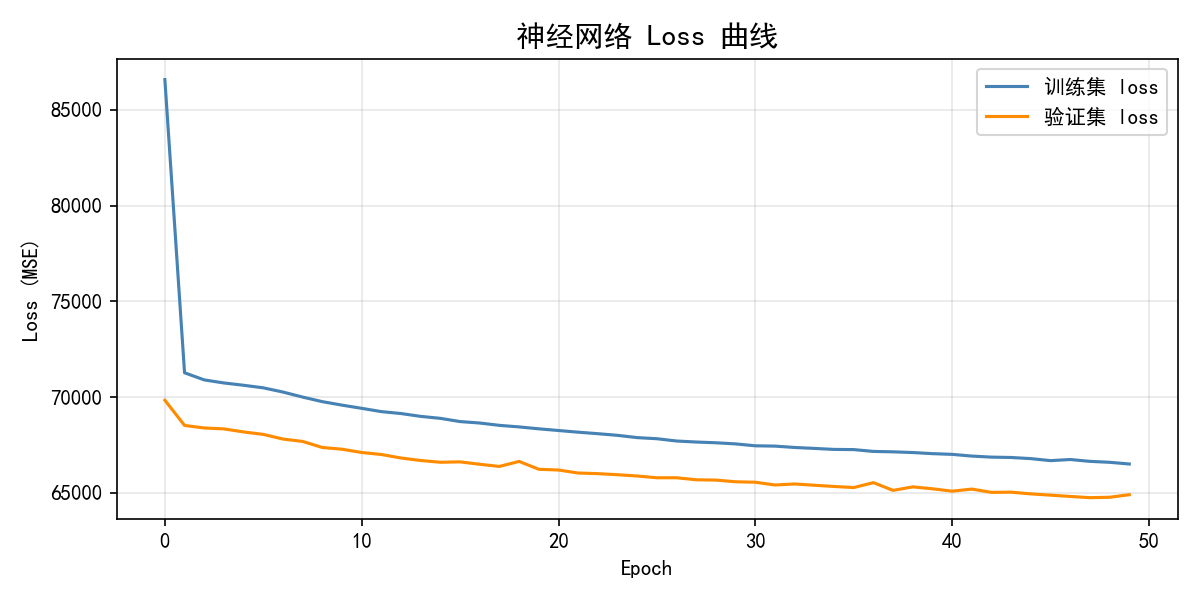
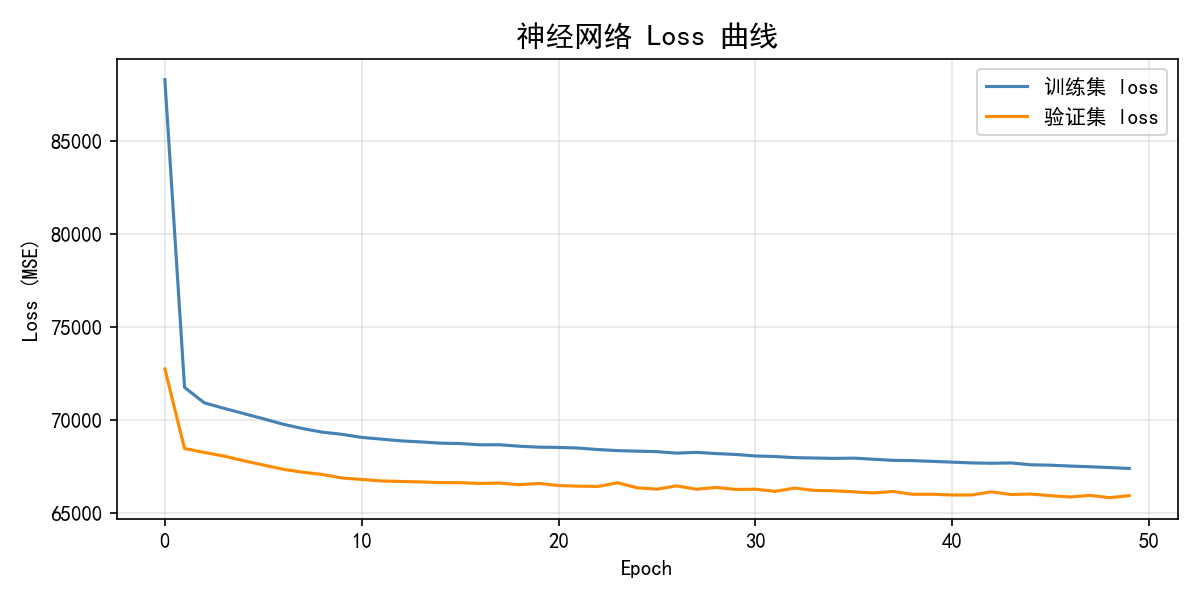
同步运行截图和报告

diff --git a/main.py b/main.py
@@ -431,6 +431,8 @@ SYSTEM_PROMPT = """你是一个纽约出租车数据分析助手，基于2023年
 def rule_based_answer(question):
     """尝试用规则匹配用户问题，返回 (bool, str, str) -> (是否匹配成功, 回答文本, 可能的图表路径)"""
     q = question.lower()
+    if '人工智能' in q or '帮我分析' in q or '详细说说' in q:
+        return False, "", None   # 强行跳过规则，走大模型
     
     # 1. 时段查询：哪个小时订单最多？
     if any(w in q for w in ['小时', '几点', '时段']) and any(w in q for w in ['最多', '高峰', '最多订单']):

diff --git a/人机协作报告.md b/人机协作报告.md
@@ -112,8 +112,6 @@
 
 - **决策**：采纳！运行后得到聚合样本数 22058，训练集 17646，测试集 4412，比例正好 8:2，没有问题！
 
-- **代码位置**：  
-  `main.py` 中 M3 模块开头，`# ===== M3 预测模型 =====` 之后至 `# 划分训练/测试集` 结束。关键行：`df.groupby(...)`、`train_test_split(test_size=0.2, random_state=42)`。
 
 
 #### 2. 神经网络模型构建与训练
@@ -123,9 +121,6 @@
 - **AI 输出摘要**：给出 3 层全连接网络（64→32→16→1，ReLU 激活），用 `StandardScaler` 对特征做标准化，编译参数 `optimizer='adam', loss='mse'`，训练 50 轮，batch size 128，记录训练/验证 loss，最后用 `matplotlib` 绘制 loss 曲线并保存，并在测试集上计算 MAE、RMSE
 
 - **决策**：采纳！运行过程中虽然出现多条 TensorFlow 的 WARNING（oneDNN、GPU 不可用等），但是给DS分析后，DS解释这些仅表示 Windows 下用的是 CPU 且有些优化选项开启，不会影响结果
-
-- **代码位置**：  
-  `main.py` 中 `# ----- 2. 神经网络模型（TensorFlow/Keras）-----` 部分，从 `import tensorflow as tf` 开始到输出 `MAE = ... RMSE = ...` 结束。包含模型定义 `Sequential`、`compile`、`fit`、`plot` 等所有操作。
 
 - **错误与修正**：通过观察训练结果我发现到验证集 loss 略低于训练集 loss（应该是有轻微异常），DS 解释可能是 dropout 缺失或验证集规模小造成的统计波动，并未出现过拟合，所以应该是没有什么问题的
 
@@ -139,8 +134,6 @@
 
 - **决策**：将这两个数值记录下来用于后面与随机森林对比
 
-- **代码位置**：  
-  Loss 曲线绘制在神经网络模型的 `# 画 loss 曲线` 注释之后，评估指标在 `# 测试集评估` 部分，调用了 `mean_absolute_error` 和 `mean_squared_error`。
 
 
 #### 4. 随机森林对比实验
@@ -151,8 +144,6 @@
 
 - **决策**：采纳！随机森林 MAE 仅 18.62，RMSE 49.56，远优于神经网络
 
-- **代码位置**：  
-  `main.py` 中 `# ----- 3. 随机森林对比模型 -----` 部分，从导入 `RandomForestRegressor` 到打印对比结论。关键行：`rf = RandomForestRegressor(...)`、`rf.fit(X_train, y_train)`、`y_pred_rf = rf.predict(X_test)`。
 
 - **AI 帮助分析优劣**：  
   DeepSeek 从三个方面解释了随机森林更优的原因：  
@@ -160,3 +151,157 @@
   2. **数据规模**：2.2 万条样本对神经网络偏小，无法发挥深度学习的优势，但对随机森林足够；  
   3. **非线性程度**：任务规律相对简单，随机森林的“分段投票”比神经网络全局拟合更直接有效。  
 
+
+---
+
+### M4 智能问答接口
+
+#### 1. 命令行问答循环设计
+
+- **核心Prompt**：“请构建一个命令行问答循环，用户输入自然语言问题，然后系统要能自动匹配并调用 M1-M3 的函数返回答案和图表路径，要求支持不少于 5 种问题类型”
+
+- **AI 输出摘要**：DS 给出了完整代码框架：`while True` 循环接收用户输入 → 先调用函数数 `rule_based_answer()` 进行关键词匹配 → 匹配成功则返回规则答案 + 图表路径 
+
+- **决策**：采纳!整体框架和代码结构清晰，`rule_based_answer` 函数集中管理 5 种问题类型的匹配逻辑，逻辑很清晰
+
+
+
+#### 2. 5 种问题类型的规则匹配
+
+- **核心Prompt**：“需要支持时段查询、区域排名、需求预测、费用查询、速度/拥堵查询 5 种类型，应该可以通过关键词匹配来实现，请完成这部分代码”
+
+- **AI 输出摘要**：为每种类型设计了关键词组合（如“小时+最多”匹配时段查询，“区域+热门”匹配区域排名），用 `if any(...) in q` 判断用户意图，返回对应答案。答案数据直接从 M1-M3 的变量中提取，如 `df['pickup_hour'].value_counts().idxmax()` 获取订单最多的小时，`y_pred_rf.mean()` 返回随机森林预测的平均需求量，图表路径也一并返回
+
+- **决策**：采纳！测试中发现“预测需求”问题时，有时用户输入较模糊（如只说“预测”），可能被误匹配到其他规则，所以在与 DS 讨论后加入了下面的增强功能
+
+
+
+#### 3. 增强功能：用户可主动调用大模型
+
+- **核心Prompt**：“我发现，有时候我希望能用大模型回答，但系统走了规则，感觉回答起来差点意思，能不能加个功能，让我说‘帮我分析’时强制走大模型？”
+
+- **AI 输出摘要**：DS 建议在 `rule_based_answer` 函数最前面增加判断：如果问题中包含“帮我分析”“详细解释”等关键词，直接返回 `(False, "", None)`，跳过规则匹配，强制进入大模型兜底逻辑
+
+- **决策**：采纳！初次实现时因缩进错误导致运行失败，AI 指出 `return` 语句需比 `if` 多一级缩进，修正后功能正常可以运行，这个改进让用户可以自主选择走规则还是走大模型，提升了系统的灵活性
+
+
+
+
+#### 4. 大模型 API 接入
+
+- **核心Prompt**：“我希望可以接入大模型 API，对无法匹配规则的问题给出解释性回复，这样系统就能更加灵活”
+
+- **AI 输出摘要**：DS 推荐使用 SiliconFlow 平台，因其兼容 OpenAI 格式且提供免费额度，代码使用 `openai` 库，配置 `base_url` 为 `https://api.siliconflow.cn/v1`，模型选择 `Qwen/Qwen2.5-7B-Instruct`，System Prompt 设定角色为“纽约出租车数据分析助手”，限定回答范围。编写 `ask_llm()` 函数负责 API 调用，主循环中在规则匹配失败时调用
+
+- **决策**：采纳！初次尝试时使用的是千问模型，后续想换用 DeepSeek 模型测试不同的模型的区别，但返回 `Error code: 403 - Model disabled`，DS 解释是 SiliconFlow 上 DeepSeek 模型因第三方限制被禁用，改回 `Qwen/Qwen2.5-7B-Instruct` 后可以正常运行了
+
+
+
+#### 5. System Prompt 的设计与迭代过程
+
+本次 System Prompt 经历了三版迭代：
+
+**v1（初始版本）**：你是一个数据分析助手，回答关于纽约出租车数据的问题
+
+**测试效果**：回答泛泛而谈，没有具体的结合我们的程序和数据进行回答，专业性差点意思
+**发现问题**：应该是因为我们没有给大模型限定数据范围，模型不知道要基于具体数据集回答，所以回答不够专业也不够具体
+
+
+**v2（增加数据约束）**：你是一个纽约出租车数据分析助手，基于2023年1月黄色出租车数据（约293万条行程）回答问题，回答时请简洁、数据驱动
+
+**测试效果**：回答更有针对性，但遇到一些奇怪问题时模型会编造数据  
+**发现问题**：没有设置“能力边界”，模型不懂说“不知道”，应该将模型的角色设置要求的具体一些
+
+**v3（最终版本，当前代码使用）**：你是一个纽约出租车数据分析助手，基于2023年纽约1月黄色出租车数据（约293万条行程）回答问题。
+你可以帮助用户理解出行规律、区域热度、费用影响因素、交通速度变化等。
+回答时请尽量简洁、数据驱动，如果用户的问题超出数据范围，请礼貌说明并给出合理建议
+
+**测试效果**：回答更加稳定、诚实，超出范围的问题会礼貌说明“该问题不在数据范围内”，一般不会编造数字  
+
+**迭代总结**：
+- v1→v2：添加了具体数据描述（2023年1月、293万条），约束了回答依据；
+- v2→v3：添加了能力范围声明和“超出范围请礼貌说明”指令，让回答更加具体
+
+
+
+
+## 二、三阶段对比——以「提取小时特征」为例
+
+我选取了 M1 特征提取中的"从上车时间中提取小时"这一个相对简单的功能，来对比三种开发模式的差异
+
+
+### Native 版
+```python
+# Native 版：提取小时特征
+data = []
+# 用with open 函数打开数据文件，逗号分隔
+with open("data/yellow_tripdata_2023-01.csv", "r") as f:
+    header = f.readline().strip().split(",")
+    for line in f:
+        row = line.strip().split(",")
+        data.append(row)
+
+# 找到 pickup_datetime 的索引（用for循环）
+pickup_idx = -1
+for i, col in enumerate(header):
+    if col == "tpep_pickup_datetime":
+        pickup_idx = i
+        break
+
+# 提取小时
+hours = []
+for row in data:
+    datetime_str = row[pickup_idx]
+    # 格式类似 "2023-01-01 00:32:10"
+    time_part = datetime_str.split(" ")[1]
+    hour = time_part.split(":")[0]
+    hours.append(int(hour))
+
+print("前 10 个行程的小时：", hours[:10])
+# 最后输出
+```
+
+### Prompt 版
+**提示词**："请帮我写一段 Python 代码，用 pandas 读取 data/yellow_tripdata_2023-01.parquet 文件，该文件我放在目录下的data文件夹内，从数据文件的 tpep_pickup_datetime 列提取小时，存为新列 pickup_hour，然后打印前 10 行的小时值"（写提示词的时候有参考完整的代码）
+
+```python
+# Prompt 版：提取小时特征
+import pandas as pd
+
+df = pd.read_parquet("data/yellow_tripdata_2023-01.parquet")
+df['pickup_hour'] = df['tpep_pickup_datetime'].dt.hour
+print(df['pickup_hour'].head(10))
+```
+### Vibe 版
+**Prompt**：“我想从行程时间中提取小时、星期、是否高峰等特征，应该如何实现？”
+
+```python
+# Vibe 版：提取多个时间特征
+df['pickup_hour'] = df['tpep_pickup_datetime'].dt.hour
+df['pickup_weekday'] = df['tpep_pickup_datetime'].dt.weekday
+df['is_peak'] = df['pickup_hour'].isin([7, 8, 9, 17, 18, 19]).astype(int)
+print(df[['pickup_hour', 'pickup_weekday', 'is_peak']].head())
+```
+
+### 对比分析：
+
+这三个版本的代码有不少区别
+- **效率**：Native版本的效率应该是最低的，毕竟是纯人工手写，肯定需要耗费一定的时间和精力；相比之下Prompt版和Vibe版效率要高很多，只需要给出相应的要求，大模型会自己写好代码，对于编程的人来说可以节省一定的精力，但是在大模型给出代码之后依旧需要自己进行人工审查和理解代码的运行逻辑
+
+- **理解深度**：写Native版时，程序员对代码的理解深度应该是最深最充分的，只有充分理解需求，充分理解每行代码背后的运行逻辑，才能自己手工写出代码。Prompt版也需要了解很多语法的运行逻辑和需求，给出明确的指令，才能精确地写出提示词，让AI精确地生成相应的代码。相比之下，Vibe版更加友好，即使对语法和逻辑了解的没有那么全面和透彻，也可以通过精确的描述任务需求，来给AI下达指令，最后也能做出相当的成功（不过这依旧要求使用者对AI生成的代码有一定的审查能力！），所以综合来说，Vibe版对程序员的要求没有前两个那么高。
+
+
+## 三、个人反思
+其实在完成本次的人机协作编程作业之后，我有挺深的感触
+AI工具的能力边界   
+在完成这次的人机协作编程作业之后，我对AI工具的能力边界有了新的认识   
+首先不可否认的是AI工具的能力真的很强，尤其是在写代码这方面，有时候效率高的让人震惊，只需要给出相应的提示词和要求，AI就能很快速地生成相应的代码    
+
+
+学到了很多东西
+在AI的时代或许编程的门槛变低
+通过与AI的交互可以在编程的同时学到一些新东西
+自己之前可能对这个写提示词和vibe coding有一些误解，在之前的几次作业当中也是有一些做的不是非常好的地方，但是在这几次的作业当中也是学会了很多的东西比如git github 使用了pycharm vscode 安装新版本等等，解决问题的过程中AI工具是很好的助手
+或许自己应该提高一下对代码的审查能力，在这次的作业里面没有发现有什么AI在逻辑和语法上的错误，发现的错误都是因为我最开始的环境没有搭建好
+
+第一点就是，编程正在走入一个新的阶段，也是老师上课时候讲到的，自然语言编程，只需要通过人类的语言和文字，准确描述需求和问题